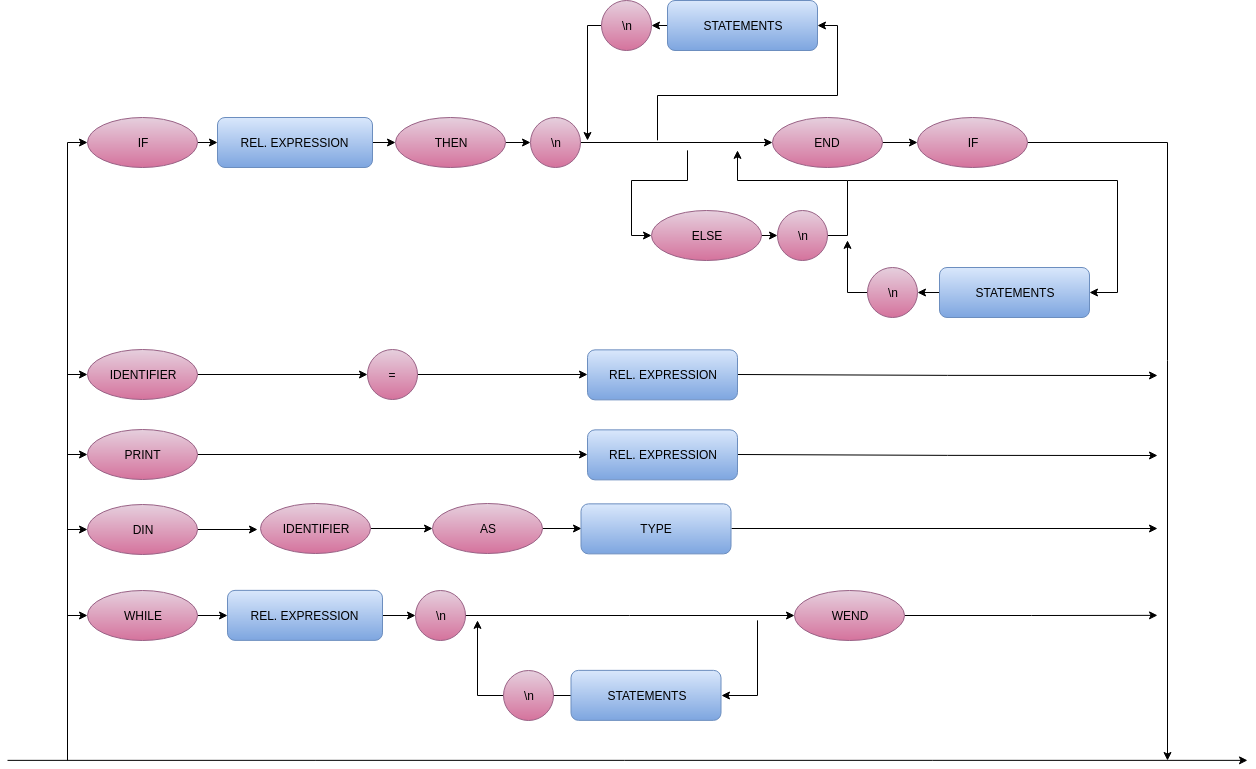
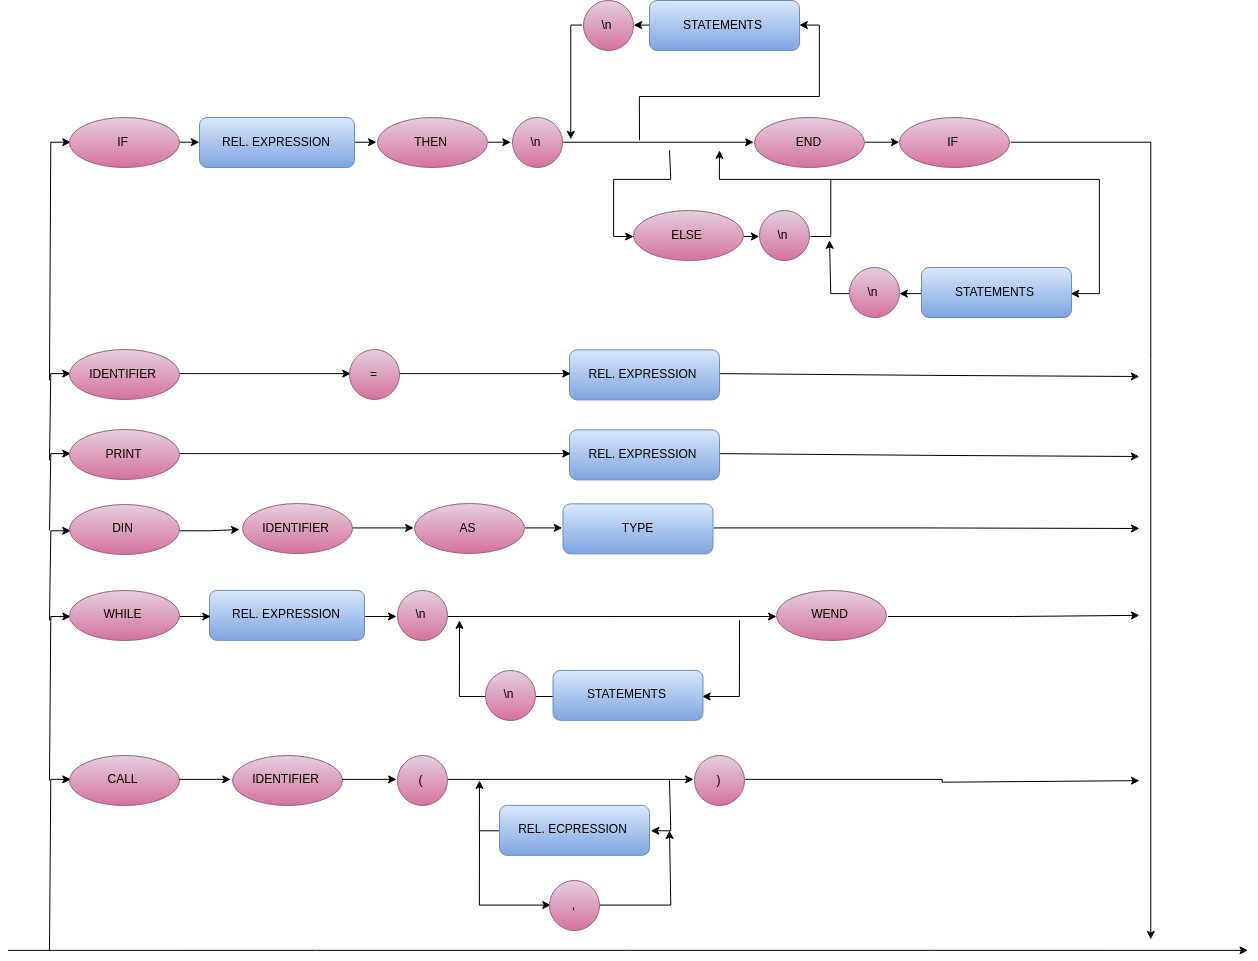
diagrama atualizado

diff --git a/README.md b/README.md
@@ -4,6 +4,14 @@
 ![Diagrama1](./Imgs/PROGRAM.png)
 <br>
 
+### FuncDec
+![Diagrama2](./Imgs/FuncDec.png)
+<br>
+
+### SubDec
+![Diagrama2](./Imgs/SubDec.png)
+<br>
+
 ### Statement
 ![Diagrama2](./Imgs/STATEMENT.png)
 <br>
